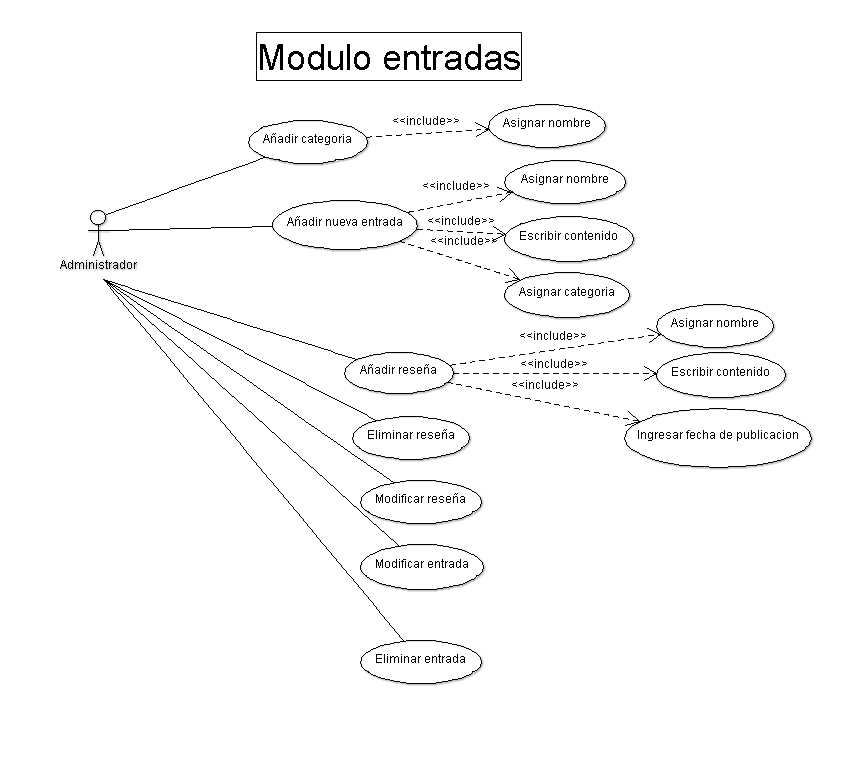
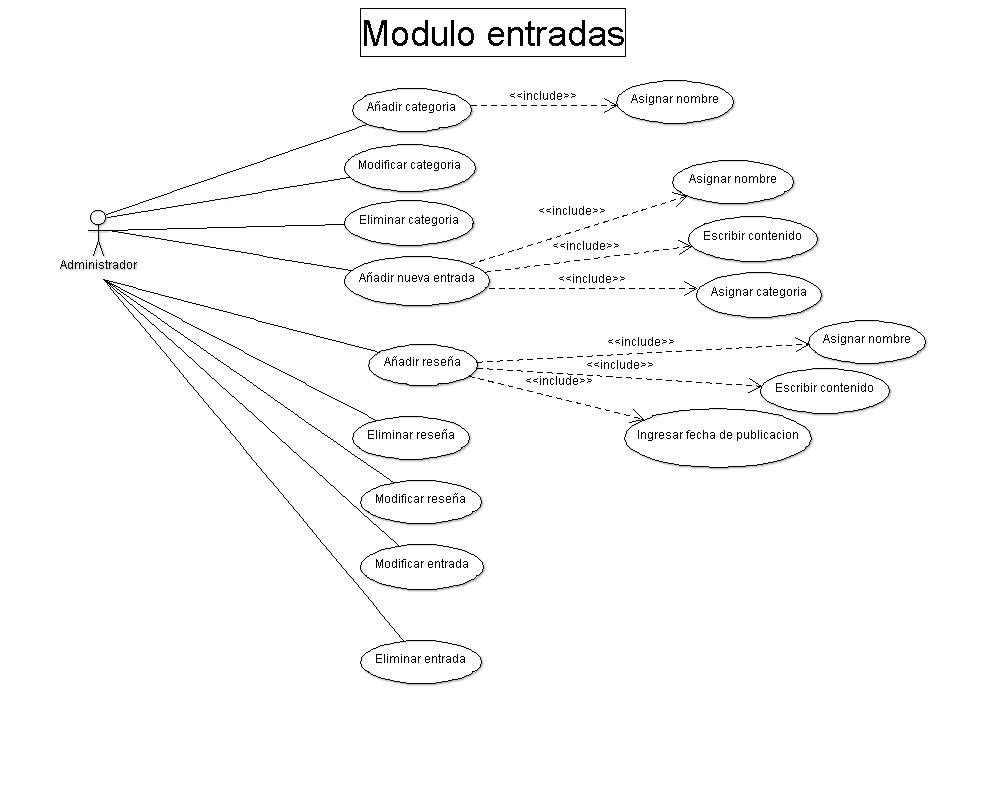
Cambios referencia, modulos y ortografia

diff --git a/source/proyecto.rst b/source/proyecto.rst
@@ -2,27 +2,40 @@
 ===========
 Descripción General
 -------------------
-El proyecto consiste en sistematizar los datos para obtener informacion importante, habran tre tipos de usuarios que son: Administrador, Artista, Visitante.
+El proyecto consiste en sistematizar los datos para obtener información importante, habrá tres tipos de usuarios que son: Administrador, Artista, Visitante.
 
-El administrador tendra todos los privilegios de la aplicacion. Este podra ingresar, actualizar y borrar contenido de la web. Sus principales funciones serasn en  dar de alta a los artistas que se registren en la aplicacion, programa las capsulas de informacion sobre las reseñas historicas, moderar los comentarios, crear eventos, poder administrar la informacion sobre los centros culturales, tener acceso a las estadisticas que proporcione el sistema.
+**El administrador** tendrá todos los privilegios de la aplicación. Este podrá ingresar, actualizar y borrar contenido de la web. Sus principales funciones serán en dar de alta a los artistas que se registren en la aplicación, programa las capsulas de información sobre las reseñas históricas, moderar los comentarios, crear eventos, poder administrar la información sobre los centros culturales, tener acceso a las estadísticas que proporcione el sistema.
 
-El artista tendra que ser dado de alta por el administrador del sistema y  sera la persona que se publicara su informacion creando un perfil para ser visto por los visitantes, podra crear eventos, calificar y comentar.
+**El artista** tendrá que ser dado de alta por el administrador del sistema y será la persona que se publicara su información creando un perfil para ser visto por los visitantes, podrá crear eventos, calificar y comentar.
 
-El usuario visitante podra acceder a toda la informacion publica del sitio, podra ver la informacion de los artistas dados de alta, contactarse con los perfiles de los que llamen su atencion, calificar al perfil del artista, ver los eventos calendarizados, comentar sobre lo que piensa de los eventos.
+**El usuario** visitante podrá acceder a toda la información publica del sitio, podrá ver la información de los artistas dados de alta, contactarse con los perfiles de los que llamen su atención, calificar al perfil del artista, ver los eventos calendarizados, comentar sobre lo que piensa de los eventos.
 
-La aplicacion podra tener la opcion de filtrar por categorias de artistas, categorias de eventos, puntuacion mas alta, por fechas de eventos, entre otras.
+La aplicación podrá tener la opción de filtrar por categorías de artistas, categorías de eventos, puntuación mas alta, por fechas de eventos, entre otras.
 
 
 
-Modulos
+Módulos
 -------
-* **Entradas:** en este modulo servira para poder ingresar, eliminar o actualizar el contenido que el administrador desee publicar en la aplicacion. Ademas en este modulo el administrador tendra 250 caracteres para colocar la descripcion de hechos que quiera que el usuario visitante vea sobre los acontecimientos historicos. En este modulo se administran las categorias.
- Puede ver el  diagrama de caso de uso :ref:`ref_entrada`
-* **Multimedia:** este servira para tener organizadas las carpetas de imagenes, musica, documentos, etc
-* **Usuarios:** este modulo tendra la lista de los artistas  registrados en el sistemas, asi mismo aqui podra dar de alta a los cuales esten en lista de espera.
-* **Estadisticas:** aqui podra elegir los reportes que desee ver, como ejemplo: artista mas visitado, artista mas contactado, artista con menos actividad, los principales eventos, entre otros.
-* **Paginas:** el administrador podra crear nuevas paginas en donde desee publicar informacion nueva.
-* **Comentarios** en este modulo se administraran todos los comentarios nuevos que sean publicados en cualquier perfil, evento, o entrada de la pagina.
-* **Registro:** en este modulo el artista podra ser registrado en la pagina llenando la informacion requerida
-* **Perfil:** este servira para poder actualizar la informacion del registrado, todo dependiendo de los privilegios otorgados por la aplicacion.
-* **Eventos:** se podra crear eventos con el nombre, descripcion, lugar, fecha, precio y ser calendarizados, asi mismo poder modificarlos o eliminarlos.
+* **1. Entradas:** en este módulo servirá para poder ingresar, eliminar o actualizar el contenido que el administrador desee publicar en la aplicación. Además, en este módulo el administrador tendrá 250 caracteres para colocar la descripción de hechos que quiera que el usuario visitante vea sobre los acontecimientos históricos. En este módulo se administran las categorías.
+ Puede ver el diagrama de caso de uso :ref:`ref_entrada`
+
+* **2. Multimedia:** este servirá para tener organizadas las carpetas de imágenes, música, documentos, etc.
+ Puede ver el diagrama de caso de uso :ref:`ref_multimedia`
+
+* **3. Estadisticas:** aquí podrá elegir los reportes que desee ver, este módulo solo puede ser visto por el administrador como ejemplo: artista más visitado, artista más contactado, artista con menos actividad, los principales eventos, entre otros.
+ Puede ver el diagrama de caso de uso :ref:`ref_estadisticas`
+
+* **4. Paginas:** el administrador podrá crear nuevas páginas en donde desee publicar información nueva.
+ Puede ver el diagrama de caso de uso :ref:`ref_paginas`
+
+* **5. Comentarios** en este módulo se administrarán todos los comentarios nuevos que sean publicados en cualquier perfil, evento, o entrada de la página.
+ Puede ver el diagrama de caso de uso :ref:`ref_comentarios`
+
+* **6.Eventos:** se podrá crear eventos con el nombre, descripción, lugar, fecha, precio y ser calendarizados, así mismo poder modificarlos o eliminarlos.
+ Puede ver el diagrama de caso de uso :ref:`ref_eventos`
+
+* **7. Artistas:** este módulo tendrá la lista de los artistas  registrados en el sistemas, así mismo aquí podrá dar de alta a los cuales estén en lista de espera, el artista podrá manejar desde este módulo su perfil, esto quiere decir que si desea modificar información inscrita pues hacerlo aquí.
+ Puede ver el diagrama de caso de uso :ref:`ref_artistas`
+
+* **8. Usuario**: Este módulo el administrador podrá crear más cuentas administradoras del sistema, para ser accedida por otros usuarios.
+Puede ver el diagrama de caso de uso :ref:`ref_usuarios`

diff --git a/source/disenio.rst b/source/disenio.rst
@@ -1,58 +1,62 @@
-**Diseño de la aplicacíon**
+**Diseño de la aplicación**
 ****************************
 
-**Casos de uso*
+**Casos de uso**
 ==================
 .. _ref_entrada:
-**Caso de uso Modulo Entrada**
+**1. Caso de uso Modulo Entrada**
 -------------------------------
-- Este modulo las entradas es un tipo de contenido, en donde se pueden agregar fotografias, videos, documentos. Para que funcione tiene que tener asignada una categoria para poder ser asignada a una pagina. Este modulo solo lo podra acceder el administrador
+- Este módulo las entradas es un tipo de contenido, en donde se pueden agregar fotografías, videos, documentos. Para que funcione tiene que tener asignada una categoría para poder ser asignada a una página. Este módulo solo lo podrá acceder el administrador
 .. figure:: CasosDeUso/Entrada.png
    :align: center
 
-
-**Caso de uso MODULO MULTIMEDIA**
+.. _ref_multimedia:
+**2. Caso de uso Modulo Multimedia**
 -------------------------------
-- En este modulo servira subir al servidor y guardar las imagenes, videos, archivos, documentos. Estas archivos se guardaran en las carpetas especificas. Este modulo solo lo podra acceder el administrador.
-
+- En este módulo servirá subir al servidor y guardar las imágenes, videos, archivos, documentos. Estas archivos se guardaran en las carpetas específicas. Este módulo solo lo podrá acceder el administrador.
 .. figure:: CasosDeUso/Multimedia.png
    :align: center
 
-**Caso de uso MODULO USUARIO**
--------------------------------
-- El administrador podra ingresar a cualquier usuario o artista que quiera ser registrado en la web. Ademas aqui es donde podran ser aceptados los nuevos usuarios registrados
-.. figure:: CasosDeUso/Usuarios.png
-   :align: center
-
-**Caso de uso MODULO ESTADISTICAS**
+.. _ref_estadisticas:
+**3. Caso de uso Modulo Estadisticas**
 -----------------------------------
-- Aqui el administrador podra filtrar las estadisticas segun sean requeridas
+- Aquí el administrador podrá filtrar las estadísticas según sean requeridas.
 .. figure:: CasosDeUso/Estadisticas.png
    :align: center
 
-**Caso de uso MODULO PAGINAS**
+.. _ref_estadisticas:
+**4. Caso de uso Modulo Paginas**
 -------------------------------
-- Este modulo sirve para crear paginas nuevas (Secciones) en las cuales se puede asignar las entradas creadas para introducir contendo nuevo.
+- Este módulo sirve para crear paginas nuevas (Secciones) en las cuales se puede asignar las entradas creadas para introducir contenido nuevo.
 .. figure:: CasosDeUso/Paginas.png
    :align: center
 
-
-**Caso de uso MODULO REGISTRO**
+.. _ref_comentario:
+**5. Caso de uso Modulo Comentarios**
 -------------------------------
-- En este modulo el usuario subira su informacion para crear su perfil y ser aceptada por el administrador.
-.. figure:: CasosDeUso/Registro.png
+- Este modulo el artista podra administrar los comentarios.
+.. figure:: CasosDeUso/Comentario.png
    :align: center
 
-**Caso de uso MODULO PERFIL**
--------------------------------
-- Este modulo se utiliza cuando el artista quiere modificar su informacion o eliminar su perfil.
-.. figure:: CasosDeUso/Perfil.png
-   :align: center
 
-**Caso de uso MODULO EVENTOS**
+**6. Caso de uso Modulo Eventos**
 -------------------------------
-- En este modulo se crearan los nuevos eventos para ser publicados en el contenido web
+- En este módulo se crearán los nuevos eventos para ser publicados en el contenido web
 .. figure:: CasosDeUso/Eventos.png
+   :align: center
+
+
+**7. Caso de uso Modulo Artista**
+-------------------------------
+- El administrador podrá ingresar a cualquier usuario o artista que quiera ser registrado en la web. Además aquí es donde podrán ser aceptados los nuevos usuarios registrados
+.. figure:: CasosDeUso/Artista.png
+   :align: center
+
+
+**8. Caso de uso Modulo usarios**
+-------------------------------
+- En este módulo el administrador podra crear mas perfiles para adminitradores.
+.. figure:: CasosDeUso/Usuarios.png
    :align: center
 
 

diff --git a/source/objetivos.rst b/source/objetivos.rst
@@ -1,22 +1,22 @@
-"Aplicacion de control para artistas en Quetzaltenango"
+"Aplicación de control para artistas en Quetzaltenango"
 =======================================================
 
 Breve historia del proyecto
 ---------------------------
-La casa de la cultura es quien vela por mantener activas las memorias culturales a traves de formacion al publico general. A lo largo del tiempo se han perdido en el olvido variedad de artistas,  es por eso que con la nueva gestion del director de proyectos Ernesto Tucios, ha decidido modernizar y actualizar los directorios. Esta decisión se tomo por la actual demanda que exigen los artistas, el principal elemento es tener un espacio donde ellos puedan promocionarse, en donde una persona pueda acceder a su informacion, esto servirá para recopilar todo tipo de información y estadísticas para que ellos puedan tomar decisiones. El sistema tiene que estar diseñado para ser transitorio, pues hay que dejar abierta la posibilidad de ampliación.
+La casa de la cultura es quien vela por mantener activas las memorias culturales a través de formación al público general. A lo largo del tiempo se han perdido en el olvido variedad de artistas, es por eso que con la nueva gestión del director de proyectos Ernesto Tucios con quien se realizaron varias entrevistas para la descripción del sistema, ha decidido modernizar y actualizar los directorios para poder agilizar el tiempo de atención al público. Esta decisión se tomó por la actual demanda que exigen los artistas, el principal elemento es tener un espacio donde ellos puedan promocionarse, en donde una persona pueda acceder a su información, esto servirá para recopilar todo tipo de información y estadísticas para que ellos puedan tomar decisiones. El sistema tiene que estar diseñado para ser transitorio, pues hay que dejar abierta la posibilidad de ampliación.
 
 
 Empresa a la que se dirige el sistema
 -------------------------------------
-La casa de la cultura de Quetzaltenango es un centro que se encarga de difusión, acceso y formación de los eventos culturales pertenecientes a la cuidad. Actualmente cuentan con 4 trabajadores los cuales son encargados de las diferentes áreas de Gestion de Proyectos, comunicacion y secretaria. Esta entidad gestiona todos los eventos y lleva la administración de los principales centros de cultura tales como, Casa Noj, Teatro Municipal, Salón Municipal, Centro Intercultural, entre otros. 
+La casa de la cultura de Quetzaltenango es un centro que se encarga de difusión, acceso y formación de los eventos culturales pertenecientes a la cuidad. Actualmente cuentan con 4 trabajadores los cuales son encargados de las diferentes áreas de Gestión de Proyectos, comunicación y secretaria. Esta entidad gestiona todos los eventos y lleva la administración de los principales centros de cultura tales como, Casa Noj, Teatro Municipal, Salón Municipal, Centro Intercultural, entre otros. 
 Su principal función es promover la cultura en Quetzaltenango, para que las personas puedan conocer un poco mas sobre el contexto cultural del lugar.
 
 Misión del proyecto
 ----------------------
-Proporcionar de forma adecuada la informacion y  datos precisos, claros y  confiables sobre la cultura de Quetzaltenango, para la toma de decisiones en su ambito laboral. 
+Proporcionar de forma adecuada la información y datos precisos, claros y confiables sobre la cultura de Quetzaltenango, para la toma de decisiones en su ámbito laboral. 
 
 Objetivos del proyecto
 ----------------------
 - Duplicar el directorio actual de los artistas.
-- Tener un minimo de 1000 artistas registrados en el plazo de un año.
-- Estudiar las estadisticas de los primeros 3 meses para aplicar estrategias de acercamiento a los habitantes de Quetzaltenango.
+- Tener un mínimo de 1000 artistas registrados en el plazo de un año.
+- Estudiar las estadísticas de los primeros 3 meses para aplicar estrategias de acercamiento a los habitantes de Quetzaltenango.
